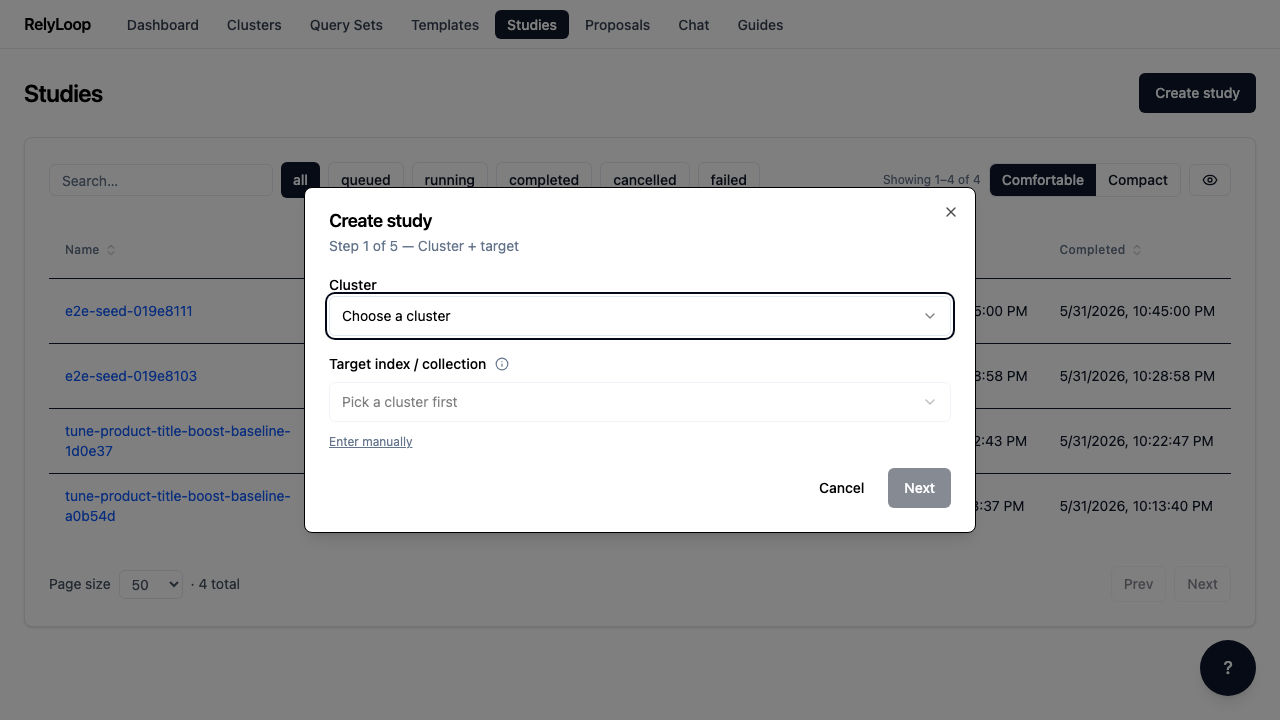
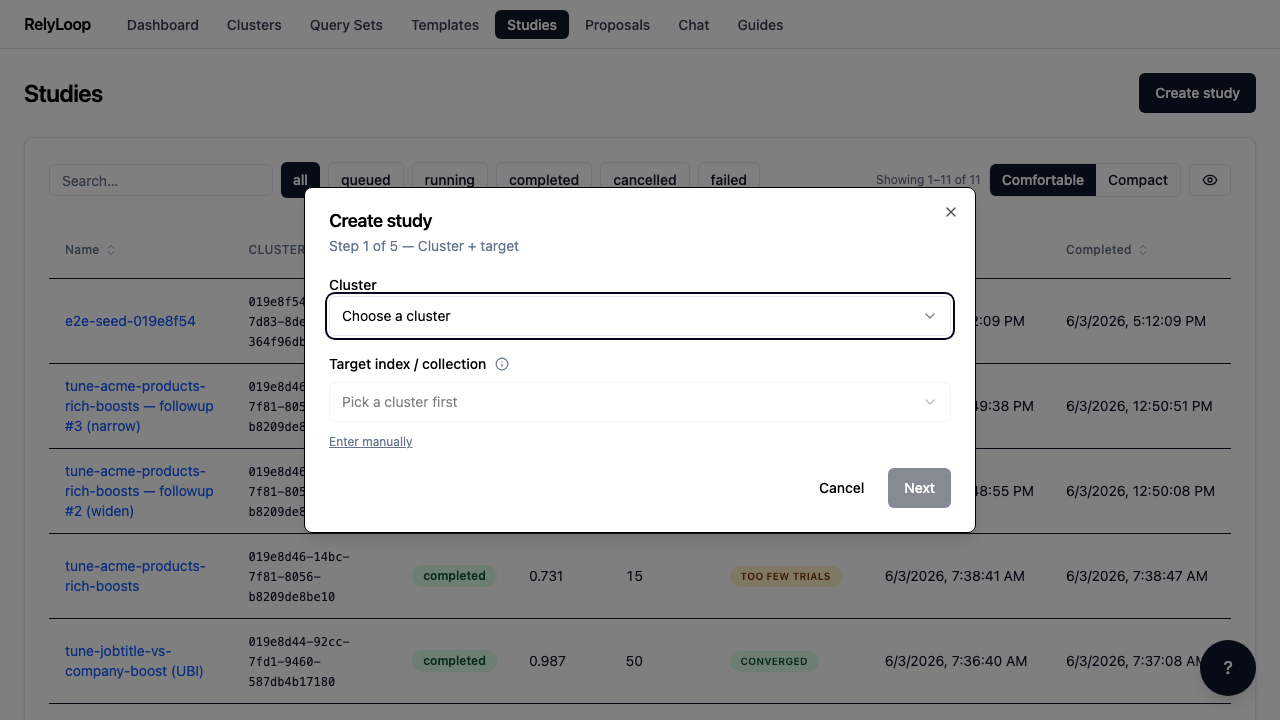
feat(studies-ui): restore lost Trials + Convergence list columns (#438)
* feat(studies-ui): restore lost Trials + Convergence list columns

The studies list backend already returns trial_count + convergence_verdict
(feat_studies_convergence_visibility, PR #421 Story 1.1 / b90d5477), but
the Story 1.2 *frontend* columns (commit ed5ca276) never reached main —
they were dropped in the PR #421/#422 rebase that de-duplicated Epic 1
commits. So the fields sat returned-but-unsurfaced; the /studies list ran
with only its original 6 columns.

This restores ed5ca276 by cherry-pick (the reviewed original is better
than a fresh reimplementation — header tooltipKey pattern, hideable,
`satisfies Record<ConvergenceVerdict>` exhaustiveness, the study.trial_count
glossary key, a dedicated unit test, and an E2E spec):

- studies-table.column-config.tsx: Trials column (trial_count) +
  Convergence column (convergence_verdict → Converged / Improving /
  Too few trials badge, em-dash when null). Both use header tooltipKey
  + are hideable.
- studies-table-convergence-column.test.tsx (restored): 7 cases.
- studies-convergence-columns.spec.ts (restored): E2E.
- glossary.ts: study.trial_count + convergence_verdict short entries.

Caught a gap the lost commit never exercised: the header tooltipKey
renders an <InfoTooltip> in the column header, whose Radix Tooltip needs
a TooltipProvider ancestor. The app shell (layout.tsx) provides one in
prod, but page.test.tsx renders <StudiesPage> in isolation — so it now
[…]

diff --git a/ui/src/__tests__/components/studies/studies-table-convergence-column.test.tsx b/ui/src/__tests__/components/studies/studies-table-convergence-column.test.tsx
@@ -1,0 +1,120 @@
+// SPDX-FileCopyrightText: 2026 soundminds.ai
+//
+// SPDX-License-Identifier: Apache-2.0
+
+/**
+ * Tests for the studies-list Trials + Convergence columns
+ * (feat_studies_convergence_visibility Story 1.2 / FR-4).
+ *
+ * Verifies:
+ * - the trial_count cell renders the numeric count;
+ * - the convergence badge renders the correct compact label/variant for
+ *   each verdict, sourced from CONVERGENCE_VERDICT_VALUES;
+ * - a null verdict renders an em-dash (no badge), matching the detail
+ *   panel's null-state behavior.
+ */
+import { render, screen } from '@testing-library/react';
+import { type ReactNode } from 'react';
+import { describe, expect, it } from 'vitest';
+
+import { studiesColumns } from '@/components/studies/studies-table.column-config';
+import { TooltipProvider } from '@/components/ui/tooltip';
+import type { StudySummary } from '@/lib/api/studies';
+import { CONVERGENCE_VERDICT_VALUES } from '@/lib/enums';
+
+function baseStudy(overrides: Partial<StudySummary>): StudySummary {
+  return {
+    id: 'study-1',
+    name: 'demo',
+    cluster_id: 'c1',
+    status: 'completed',
+    best_metric: 0.8,
+    direction: 'maximize',
+    created_at: '2026-05-29T00:00:00Z',
+    completed_at: '2026-05-29T00:05:00Z',
+    trial_count: 50,
+    convergence_verdict: null,
+    ...overrides,
+  };
+}
+
+function renderCell(columnId: string, original: StudySummary) {
+  const column = studiesColumns.find((c) => c.id === columnId);
+  if (!column?.cell || typeof column.cell !== 'function') {
+    throw new Error(`${columnId} column or its cell renderer not found`);
+  }
+  const cell = column.cell as (ctx: { row: { original: StudySummary } }) => ReactNode;
+  return render(<TooltipProvider delayDuration={0}>{cell({ row: { original } })}</TooltipProvider>);
+}
+
+describe('studies-table Trials column', () => {
+  it('renders the non-baseline trial count', () => {
+    renderCell('trial_count', baseStudy({ trial_count: 37 }));
+    expect(screen.getByText('37')).toBeInTheDocument();
+  });
+
+  it('renders zero for a queued study', () => {
+    renderCell('trial_count', baseStudy({ status: 'queued', trial_count: 0 }));
+    expect(screen.getByText('0')).toBeInTheDocument();
+  });
+});
+
+describe('studies-table Convergence column', () => {
+  const cases: Array<[StudySummary['convergence_verdict'], string]> = [
+    ['converged', 'Converged'],
+    ['still_improving', 'Improving'],
+    ['too_few_trials', 'Too few trials'],
+  ];
+
+  it.each(cases)('renders the %s verdict as "%s"', (verdict, label) => {
+    const { container } = renderCell(
+      'convergence_verdict',
+      baseStudy({ convergence_verdict: verdict }),
+    );
+    expect(screen.getByText(label)).toBeInTheDocument();
+    // The data-verdict attribute carries the wire value for downstream
+    // assertions / E2E hooks.
+    expect(container.querySelector(`[data-verdict="${verdict}"]`)).not.toBeNull();
+  });
+
+  it('renders an em-dash for a null verdict (no badge)', () => {
+    const { container } = renderCell(
+      'convergence_verdict',
+      baseStudy({ convergence_verdict: null }),
+    );
+    expect(screen.getByText('—')).toBeInTheDocument();
+    expect(container.querySelector('[data-verdict]')).toBeNull();
+  });
+
+  it('has a label for every backend verdict literal (no missing badge)', () => {
+    // Source-of-truth guard: every value in CONVERGENCE_VERDICT_VALUES must
+    // render a non-em-dash badge. A backend verdict added without a label
+    // here would slip through TypeScript only if the `satisfies` map drifted;
+    // this is the runtime backstop.
+    for (const verdict of CONVERGENCE_VERDICT_VALUES) {
+      const { container, unmount } = renderCell(
+        'convergence_verdict',
+        baseStudy({ convergence_verdict: verdict }),
+      );
+      expect(container.querySelector(`[data-verdict="${verdict}"]`)).not.toBeNull();
+      unmount();
+    }
+  });
+
+  it('falls back to an em-dash for an unmapped verdict (forward-compat guard)', () => {
+    // Regression test for the Gemini PR #438 finding (accepted): a newer
+    // backend could emit a convergence_verdict this frontend snapshot doesn't
+    // map (rolling deploy). The cast simulates that out-of-union runtime value
+    // — TypeScript would never let it through the typed path, but the wire can.
+    // The cell must render the same em-dash as the null state, NOT crash on
+    // `badge.variant`.
+    const unknown = 'diverged' as StudySummary['convergence_verdict'];
+    const { container } = renderCell(
+      'convergence_verdict',
+      baseStudy({ convergence_verdict: unknown }),
+    );
+    expect(screen.getByText('—')).toBeInTheDocument();
+    // No badge rendered for the unmapped value.
+    expect(container.querySelector('[data-verdict]')).toBeNull();
+  });
+});

diff --git a/ui/src/components/studies/studies-table.column-config.tsx b/ui/src/components/studies/studies-table.column-config.tsx
@@ -21,6 +21,7 @@ import { Badge } from '@/components/ui/badge';
 import type { DataTableColumnDef } from '@/components/common/types';
 import type { StudySummary } from '@/lib/api/studies';
 import { STUDY_STATUS_VALUES } from '@/lib/enums';
+import type { ConvergenceVerdict } from '@/lib/enums';
 
 /**
  * Threshold heuristic for the "ceiling" badge — when `best_metric` is at or
@@ -30,6 +31,25 @@ import { STUDY_STATUS_VALUES } from '@/lib/enums';
  * gap, CI band); this badge is the at-a-glance cue on the list view.
  */
 const METRIC_CEILING_THRESHOLD = 0.99;
+
+/**
+ * Compact convergence-verdict badge map for the studies-list column
+ * (feat_studies_convergence_visibility Story 1.2 / FR-4). Typed
+ * `satisfies Record<ConvergenceVerdict, ...>` so a verdict added to (or
+ * removed from) the backend `ConvergenceVerdict` Literal — mirrored by
+ * `CONVERGENCE_VERDICT_VALUES` in `@/lib/enums` — becomes a COMPILE error
+ * here, not a silent missing badge. The detail page's `<ConvergencePanel>`
+ * uses the fuller labels ("Still improving when it stopped", "Too few
+ * trials to tell"); the dense list uses these compact forms.
+ *
+ * Wire values must match backend/app/domain/study/convergence.py
+ * ConvergenceVerdict (via CONVERGENCE_VERDICT_VALUES in @/lib/enums).
+ */
+const VERDICT_BADGE = {
+  converged: { label: 'Converged', variant: 'success' as const },
+  still_improving: { label: 'Improving', variant: 'warning' as const },
+  too_few_trials: { label: 'Too few trials', variant: 'warning' as const },
+} satisfies Record<ConvergenceVerdict, { label: string; variant: 'success' | 'warning' }>;
 
 export const studiesColumns: DataTableColumnDef<StudySummary>[] = [
   {
@@ -105,6 +125,58 @@ export const studiesColumns: DataTableColumnDef<StudySummary>[] = [
               <InfoTooltip glossaryKey="study.best_metric.saturated" />
             </span>
           )}
+        </span>
+      );
+    },
+  },
+  {
+    id: 'trial_count',
+    header: 'Trials',
+    // tooltipKey renders an <InfoTooltip> in the header (data-table.tsx:435)
+    // while keeping `header` a string so the column-visibility menu shows
+    // "Trials" (not the column id) — see data-table.tsx:316.
+    tooltipKey: 'study.trial_count',
+    accessorKey: 'trial_count',
+    sortable: false,
+    hideable: true,
+    cell: ({ row }) => <span className="tabular-nums">{row.original.trial_count}</span>,
+  },
+  {
+    id: 'convergence_verdict',
+    header: 'Convergence',
+    tooltipKey: 'convergence_verdict',
+    accessorKey: 'convergence_verdict',
+    sortable: false,
+    hideable: true,
+    cell: ({ row }) => {
+      const verdict = row.original.convergence_verdict;
+      // null verdict (in-flight, invalid-direction, or < 5 complete trials)
+      // renders an em-dash, never a badge — matches the detail panel's
+      // null-state behavior.
+      if (verdict == null) return <span className="text-muted-foreground">—</span>;
+      // `verdict` is narrowed to the ConvergenceVerdict union and VERDICT_BADGE
+      // is `satisfies Record<ConvergenceVerdict, ...>`, so this lookup is
+      // provably total + safe at compile time — not user-controlled object
+      // injection.
+      // eslint-disable-next-line security/detect-object-injection
+      const badge = VERDICT_BADGE[verdict];
+      // Forward-compat guard (Gemini PR #438 review, accepted): convergence_verdict
+      // is a backend-COMPUTED classification (backend/app/domain/study/convergence.py),
+      // not a fixed DB-enum, so a newer backend could emit a verdict this snapshot
+      // doesn't map during a rolling deploy. Without this, an unmapped value would
+      // throw on `badge.variant` and crash the whole table render. Falls back to the
+      // same em-dash as the null state. Matches the StatusBadge `?? 'secondary'`
+      // pattern + the best_metric column's rolling-deploy backward-compat stance.
+      if (!badge) return <span className="text-muted-foreground">—</span>;
+      return (
+        <span
+          className="inline-flex items-center"
+          data-testid={`convergence-verdict-${row.original.id}`}
+          data-verdict={verdict}
+        >
+          <Badge variant={badge.variant} className="text-[10px] uppercase tracking-wide">
+            {badge.label}
+          </Badge>
         </span>
       );
     },

diff --git a/ui/tests/e2e/studies-convergence-columns.spec.ts b/ui/tests/e2e/studies-convergence-columns.spec.ts
@@ -1,0 +1,69 @@
+// SPDX-FileCopyrightText: 2026 soundminds.ai
+//
+// SPDX-License-Identifier: Apache-2.0
+
+/**
+ * E2E spec: /studies Trials + Convergence columns
+ * (feat_studies_convergence_visibility Story 1.2 / FR-4, AC-6).
+ *
+ * Runs against the real `make up` stack via the helpers in `./helpers/seed.ts`.
+ * No `page.route()` mocking per CLAUDE.md E2E rule — the columns are driven
+ * by the real backend's trial_count + convergence_verdict fields.
+ *
+ * A freshly seeded study runs only a handful of trials (well below the
+ * 50-trial warmup floor), so its convergence verdict is either
+ * "Too few trials" or null (em-dash) — both are valid renderings. The
+ * stable, deterministic assertions are therefore:
+ *  - the "Trials" + "Convergence" column headers render;
+ *  - the seeded study's row shows a numeric Trials cell;
+ *  - the Convergence cell renders either a verdict badge or the em-dash
+ *    null-state (never crashes / never blank).
+ */
+import { expect, test } from '@playwright/test';
+
+import { seedFullChain, seedStudy } from './helpers/seed';
+
+test.describe('/studies convergence columns', () => {
+  test('Trials + Convergence columns render against the real backend', async ({ page }) => {
+    const chain = await seedFullChain(2);
+    const study = await seedStudy({
+      clusterId: chain.clusterId,
+      querySetId: chain.querySetId,
+      templateId: chain.templateId,
+      judgmentListId: chain.judgmentListId,
+      maxTrials: 3,
+    });
+
+    await page.goto('/studies');
+    await expect(page.getByTestId('studies-table')).toBeVisible({ timeout: 5_000 });
+
+    // Both new column headers are present.
+    await expect(
+      page.getByTestId('studies-table').getByRole('columnheader', { name: /Trials/ }),
+    ).toBeVisible();
+    await expect(
+      page.getByTestId('studies-table').getByRole('columnheader', { name: /Convergence/ }),
+    ).toBeVisible();
+
+    // Locate the seeded study's row and assert its Trials cell is numeric.
+    // Filter the list to the seeded study so its row is reliably on the first
+    // page regardless of how many other studies exist.
+    const suffix = study.name.replace(/^e2e-study-/, '');
+    await page.getByTestId('data-table-search').fill(suffix);
+    await expect(
+      page.getByTestId('studies-table').getByText(study.name).first(),
+    ).toBeVisible({ timeout: 15_000 });
+
+    const row = page.locator(`[data-testid="study-row-${study.id}"]`);
+    await expect(row).toBeVisible();
+    // The Trials cell shows a non-negative integer (tabular-nums span).
+    await expect(row.getByText(/^\d+$/).first()).toBeVisible();
+
+    // The Convergence cell renders either a verdict badge OR the em-dash
+    // null-state — both are correct for a low-trial study. Assert the cell
+    // is non-empty (not blank/undefined).
+    const convergenceBadge = row.locator('[data-verdict]');
+    const emDash = row.getByText('—');
+    await expect(convergenceBadge.or(emDash).first()).toBeVisible();
+  });
+});

diff --git a/ui/src/__tests__/app/studies/page.test.tsx b/ui/src/__tests__/app/studies/page.test.tsx
@@ -8,6 +8,8 @@ import { http, HttpResponse } from 'msw';
 import { type ReactNode } from 'react';
 import { afterEach, beforeEach, describe, expect, it, vi } from 'vitest';
 
+import { TooltipProvider } from '@/components/ui/tooltip';
+
 import { server } from '../../setup';
 
 const API_BASE = 'http://api.test';
@@ -39,8 +41,15 @@ async function renderPage() {
   const qc = new QueryClient({ defaultOptions: { queries: { retry: false } } });
   const { default: StudiesPage } = await import('@/app/studies/page');
   return render(
+    // TooltipProvider mirrors the real app shell (app/layout.tsx wraps the
+    // whole tree in one). The studies-table Trials/Convergence columns render
+    // an <InfoTooltip> in the column HEADER (via tooltipKey), and Radix's
+    // Tooltip throws without a provider ancestor — so this isolated page
+    // render needs the provider the layout would otherwise supply.
     <QueryClientProvider client={qc}>
-      <StudiesPage />
+      <TooltipProvider>
+        <StudiesPage />
+      </TooltipProvider>
     </QueryClientProvider>,
   );
 }
@@ -65,6 +74,13 @@ function studyRows(count = 2) {
     direction: 'maximize' as const,
     created_at: '2026-05-12T00:00:00Z',
     completed_at: null,
+    // trial_count (required) + convergence_verdict (nullable) are part of
+    // the StudySummary wire shape since feat_studies_convergence_visibility
+    // (PR #421); the Trials + Convergence list columns
+    // (feat_studies_list_trial_convergence_columns) render them, so the mock
+    // must carry them or the Trials cell hits undefined.toLocaleString().
+    trial_count: i * 3,
+    convergence_verdict: null,
   }));
 }
 

diff --git a/ui/src/__tests__/components/studies/studies-table-ceiling-badge.test.tsx b/ui/src/__tests__/components/studies/studies-table-ceiling-badge.test.tsx
@@ -37,14 +37,13 @@ function renderBestMetricCell(overrides: Partial<StudySummary>) {
     direction: 'maximize',
     created_at: '2026-05-29T00:00:00Z',
     completed_at: '2026-05-29T00:05:00Z',
-    // `trial_count` is a required `int = 0` field on the backend (per
-    // `backend/app/api/v1/schemas.py:902`, shipped with
-    // `feat_studies_convergence_visibility` / PR #421). The freshness-
-    // gate regen of `types.ts` surfaced that this fixture omitted it
-    // (it had been working by accident against a stale committed
-    // types.ts that didn't yet reflect the new required field) —
-    // tangential fix while shipping `infra_generated_artifact_freshness_gate`.
+    // `trial_count` (required) + `convergence_verdict` (nullable) are part
+    // of the StudySummary wire shape since `feat_studies_convergence_visibility`
+    // (PR #421). The Trials + Convergence list columns render them, so the
+    // fixture must carry both — value is immaterial to the ceiling-badge
+    // assertion, which only exercises best_metric.
     trial_count: 0,
+    convergence_verdict: null,
     ...overrides,
   };
   // The DataTable cell renderer only reads `row.original`; a minimal stub

diff --git a/ui/src/lib/glossary.ts b/ui/src/lib/glossary.ts
@@ -894,6 +894,17 @@ export const glossary = {
   },
 
   // ---------------------------------------------------------------------------
+  // feat_studies_convergence_visibility Story 1.2 — studies-list trial count.
+  // Source-of-truth: backend/app/api/v1/schemas.py StudySummary.trial_count
+  //   (mirrors trials_summary.total — non-baseline optimization trials).
+  // ---------------------------------------------------------------------------
+  'study.trial_count': {
+    short:
+      'Number of optimization trials this study ran (the baseline trial is counted separately). More trials = more of the search space explored.',
+    ariaLabel: 'More information about the trial count',
+  },
+
+  // ---------------------------------------------------------------------------
   // feat_auto_followup_studies Story 3.1 — 4 chain-panel + wizard entries.
   // Text from feature_spec.md §11 tooltip inventory. Mirrors the FR-9
   // catalog (auto_followup_* events) where the chain semantics are

diff --git a/state_history.md b/state_history.md
@@ -272,6 +272,16 @@ backend + frontend code. **Epic 2** (demo data enrichment) shipped via
   compact labels `Converged`/`Improving`/`Too few trials`/em-dash. The
   verdict→badge map is `satisfies Record<ConvergenceVerdict, ...>` so a
   missing/extra verdict is a compile error.
+  - **CORRECTION (2026-06-03):** the frontend columns described in this
+    bullet (commit `ed5ca276`) did NOT actually ship with PR #421 — they
+    were dropped in the PR #421/#422 rebase that de-duplicated Epic 1
+    commits. Only the Story 1.1 *backend* fields (`b90d5477`) landed; the
+    `/studies` list ran with its original 6 columns and `trial_count` +
+    `convergence_verdict` sat returned-but-unsurfaced for ~30 hours.
+    Discovered + restored 2026-06-03 (`feat_studies_list_trial_convergence_columns`)
+    by cherry-picking `ed5ca276`, which also caught a `TooltipProvider`
+    gap in `page.test.tsx` the lost commit never exercised — confirming
+    `ed5ca276` never ran the full suite on main.
 
 **Epic 2 — what shipped (PR #422):**
 

diff --git a/docs/00_overview/implemented_features/2026_06_02_feat_studies_convergence_visibility/implementation_plan.md b/docs/00_overview/implemented_features/2026_06_02_feat_studies_convergence_visibility/implementation_plan.md
@@ -278,7 +278,7 @@ No migration (§3.5 migration verification N/A).
 
 **Epic 1 (shipped to main via PR #421 `e5c3b8b9` squash-merge, 2026-06-02):**
 - [x] Story 1.1 — backend list fields (`b90d5477` on the feat branch, landed on main via PR #421; 8 unit + 7 integration + 3 contract tests green; latent `_summary` invalid-direction crash fixed inline as a tangential discovery surfaced by AC-3b; Epic-1 phase-review F1 parity bug (count-gate `primary_metric IS NOT NULL`) fixed in `a0c40d37`)
-- [x] Story 1.2 — frontend Trials + Convergence columns (`ed5ca276` on the feat branch, landed on main via PR #421; 1012 vitest, build clean, E2E spec)
+- [x] Story 1.2 — frontend Trials + Convergence columns (`ed5ca276` on the feat branch). **CORRECTION (2026-06-03):** this commit did NOT actually land on `main` — it was dropped during the PR #421/#422 rebase that de-duplicated Epic 1 commits (the Story 1.1 *backend* fields survived in `b90d5477`, but the Story 1.2 *frontend* columns in `ed5ca276` were lost). The `/studies` list shipped with only its original 6 columns; `trial_count` + `convergence_verdict` sat returned-but-unsurfaced. Restored 2026-06-03 by cherry-picking `ed5ca276` in `feat_studies_list_trial_convergence_columns` — which also added the `TooltipProvider` wrapper to `page.test.tsx` that the header `tooltipKey` requires (a gap the lost commit never exercised against CI, confirming it never ran the full suite on main).
 - [x] Epic 1 phase gate — GPT-5.5 review: 5 findings (4 accepted+fixed `a0c40d37`, F4 rejected with counter-evidence); re-review clean.
 
 **Epic 2 (in flight as PR #422):**